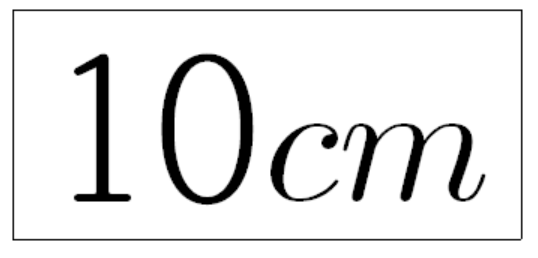
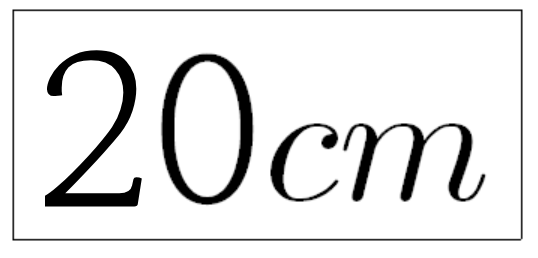
Add files via upload

Changed region(s): [[0.0595, 0.186, 0.2677, 0.8062]]

diff --git a/index.html b/index.html
@@ -90,8 +90,8 @@
 <script>
     // 이미지 파일들을 배열로 저장
     const sImages = ["s01.png", "s02.png", "s03.png", "s04.png"];
-    const dImages = ["d01.png", "d01.png"];
-    const cImages = ["c01.png", "c02.png", "c03.png", "c04.png"];
+    const dImages = ["d01.png", "d02.png"];
+    const cImages = ["c01.png", "c02.png", "c03.png", "c04.png", "c05.png", "c06.png"];
 
     let isPlaying = true; // 이미지 전환 상태를 나타내는 플래그
     startImageTransition();

diff --git a/README.md b/README.md
@@ -1,3 +1,8 @@
+v1.1 변경점
+- 구조물 모양이 6개로 바뀌었습니다.
+- 구조물 거리를 10mm, 20mm으로 수정합니다
+
+
 # 부산로봇경진대회 로봇공성전용 뽑기 파일
 공성전 뽑기 바로가기:
 https://kbj2934.github.io/robotSiege/
